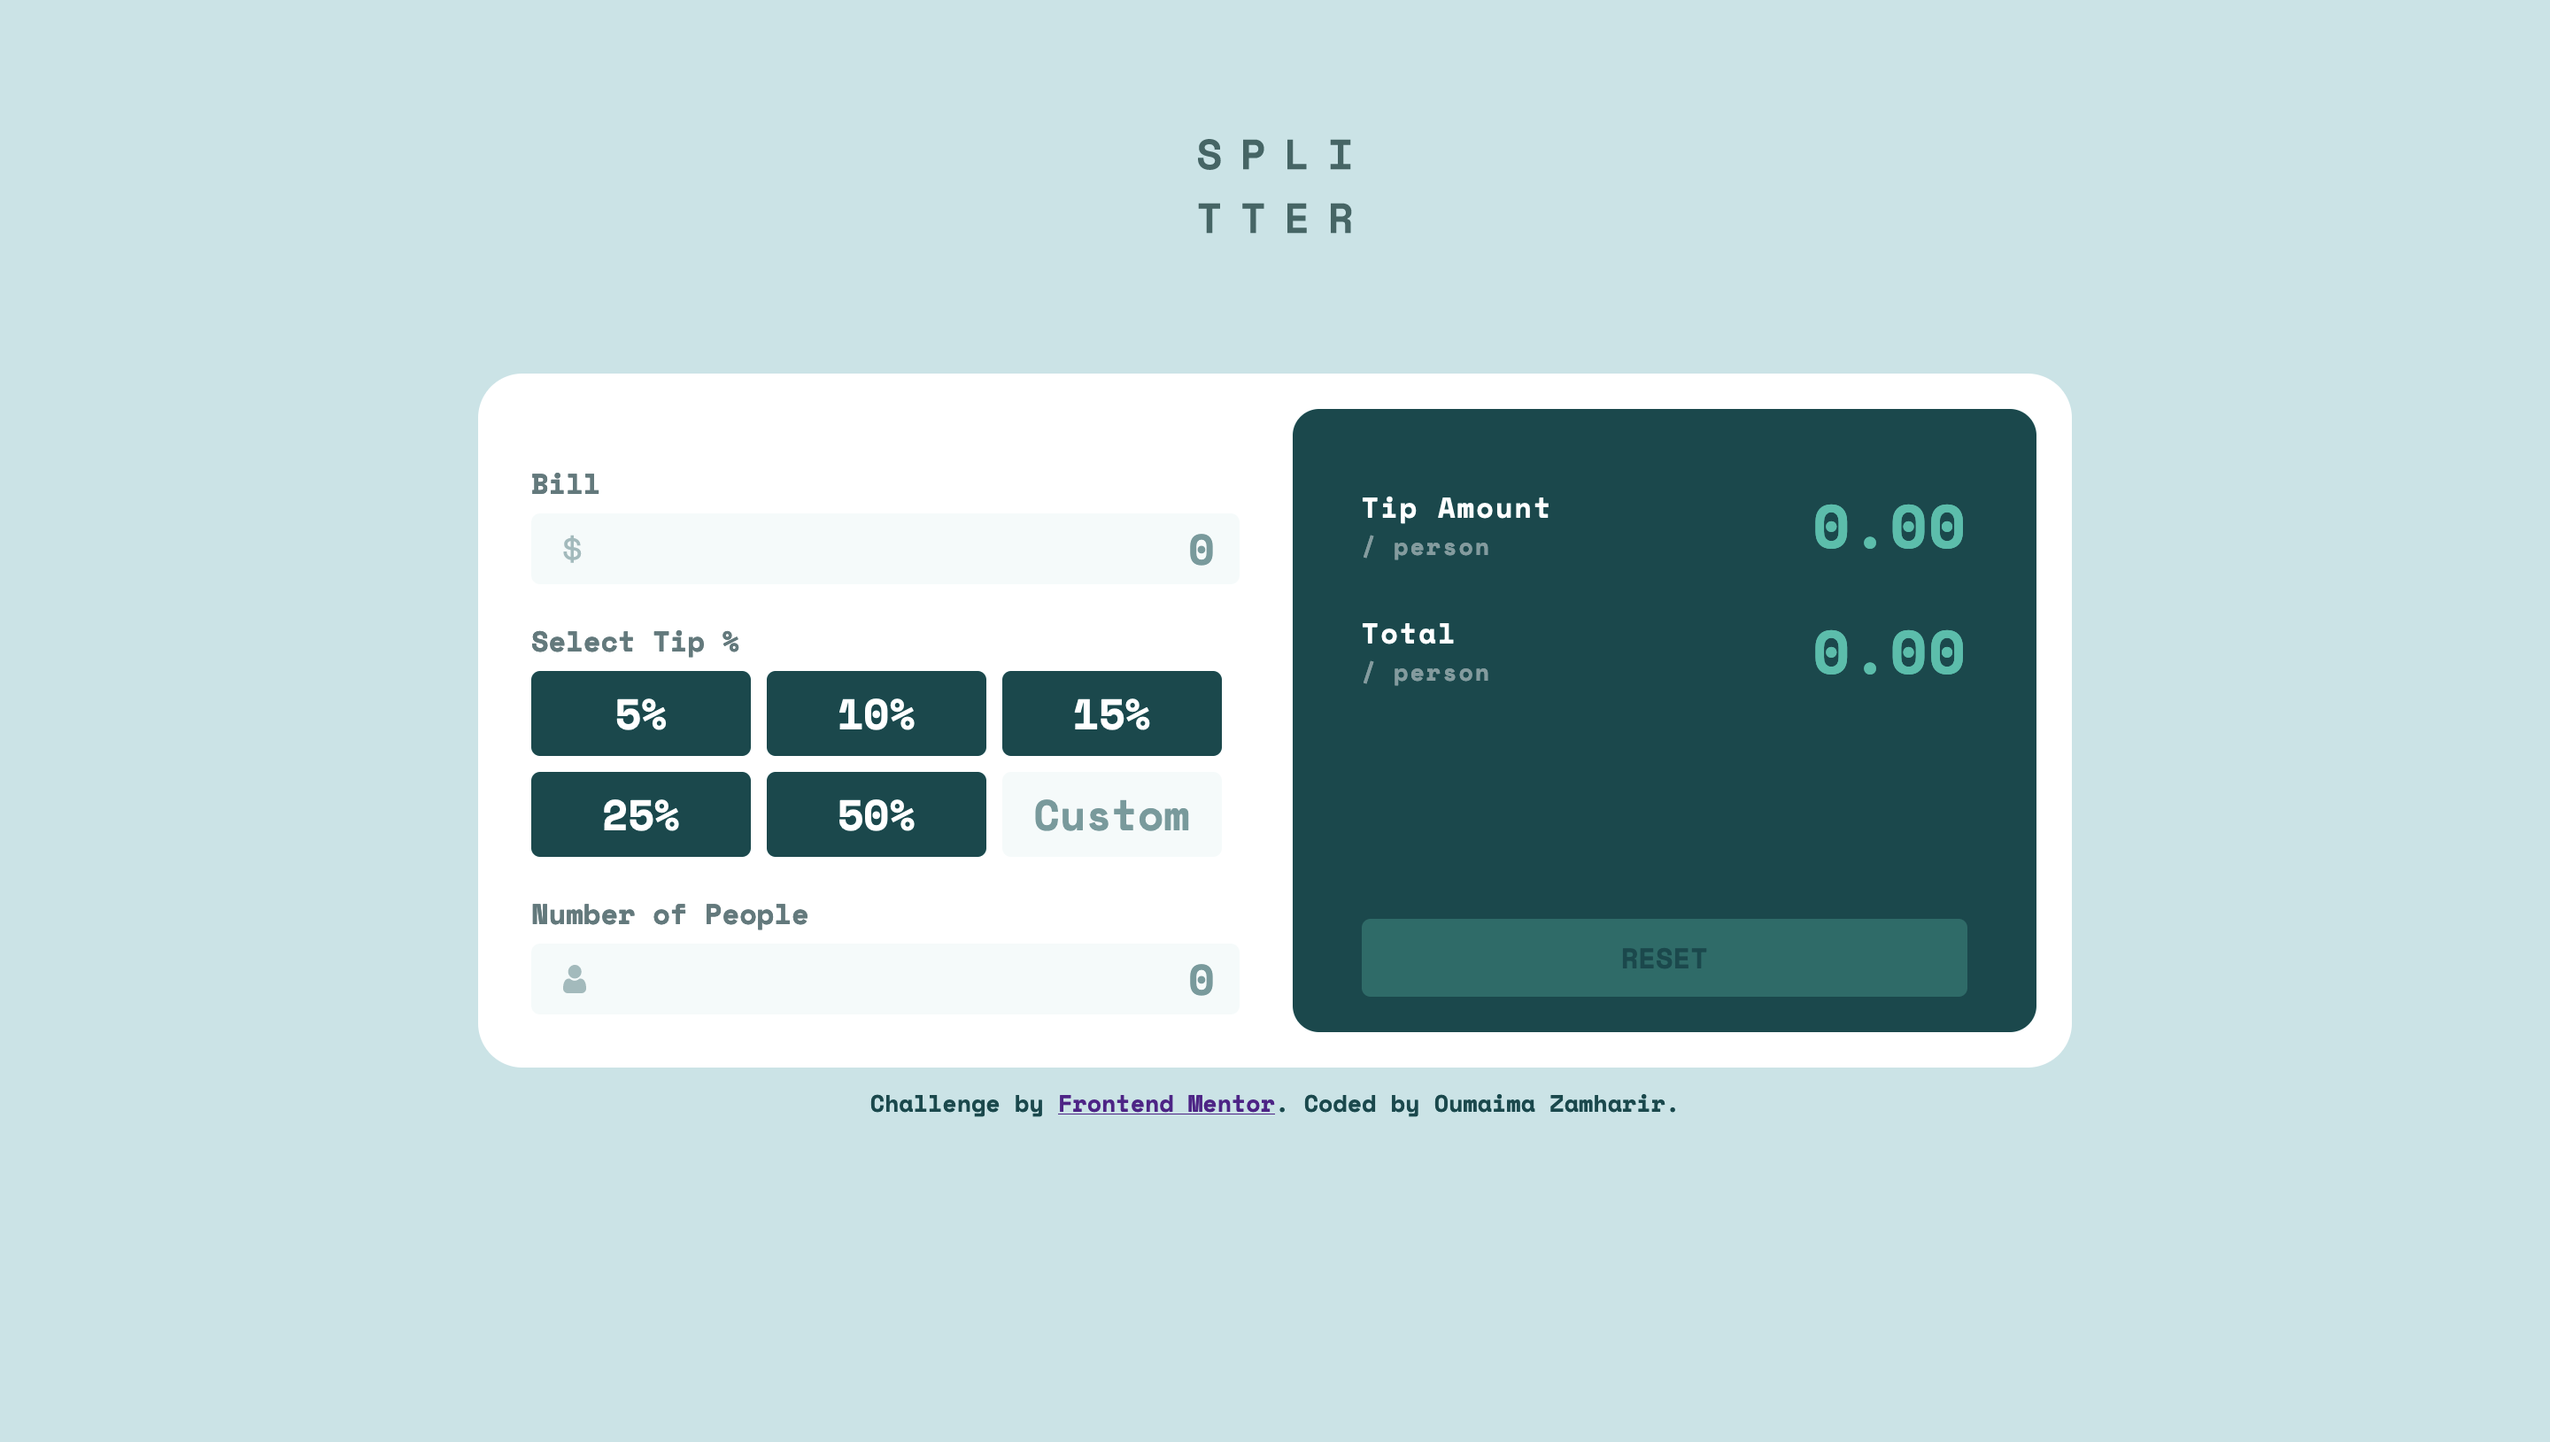
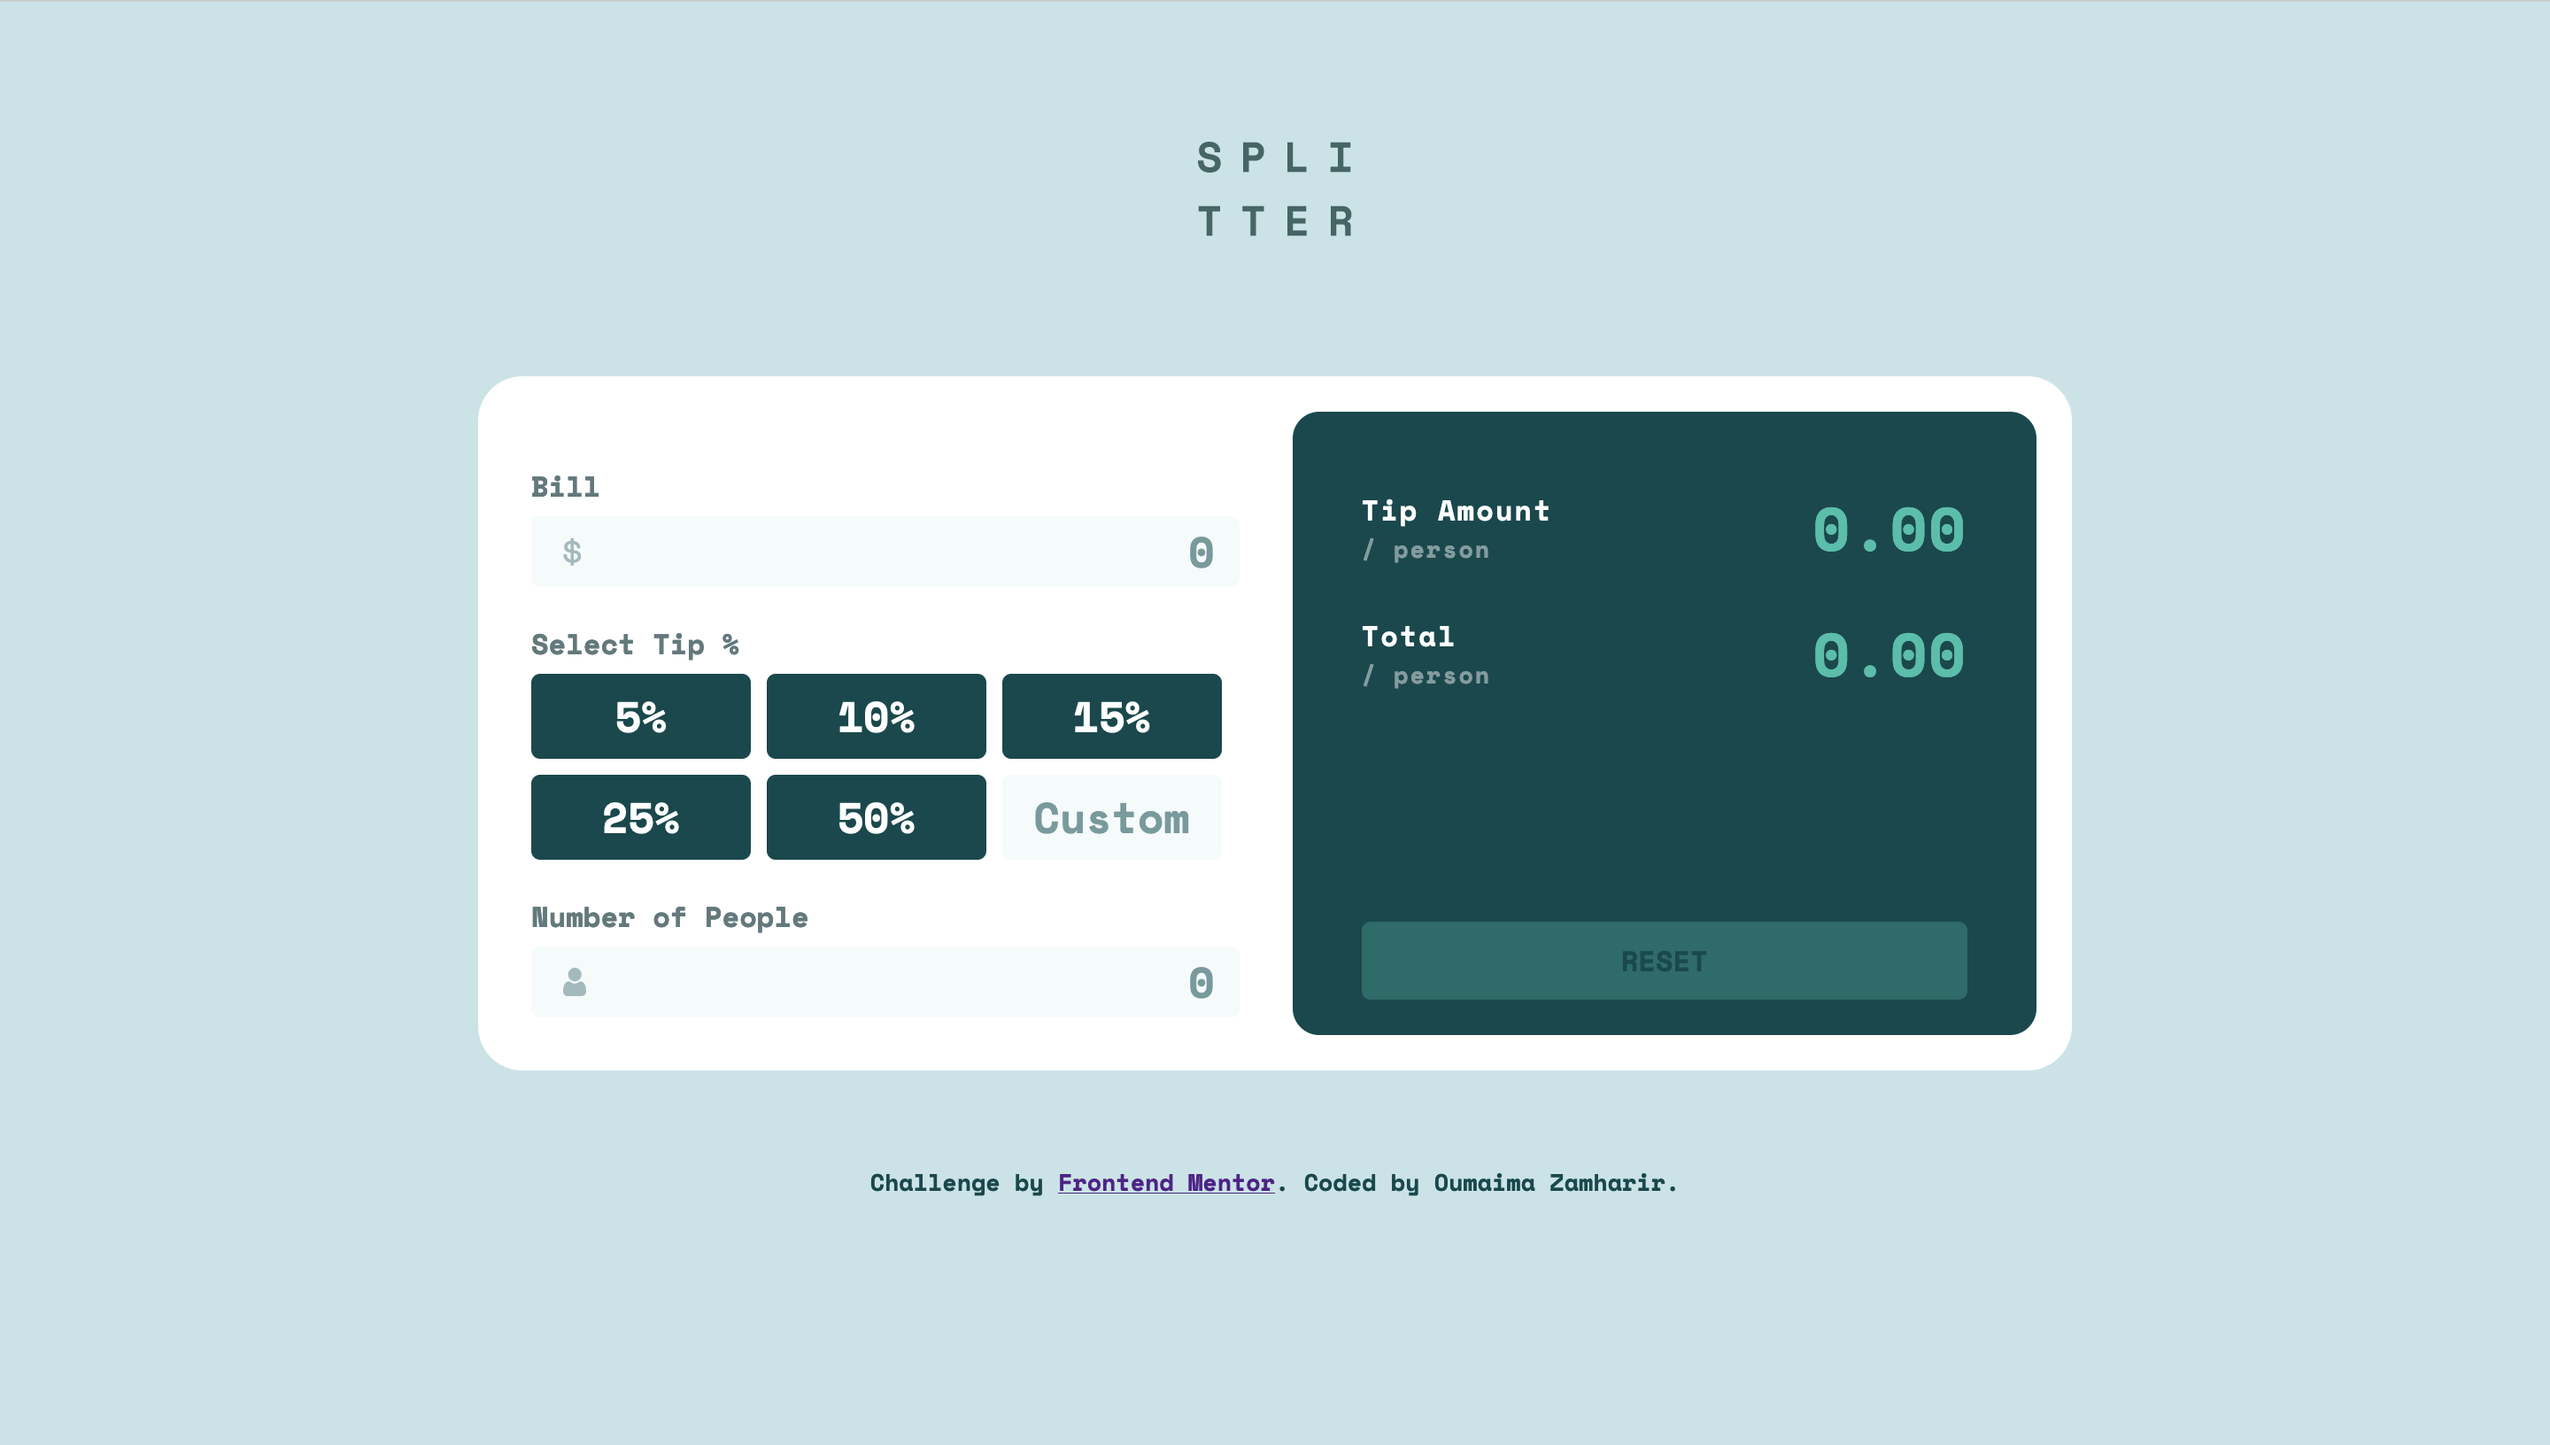
attribution styling

diff --git a/test.css b/test.css
@@ -1,0 +1,183 @@
+@import url("https://fonts.googleapis.com/css2?family=Space+Mono:wght@700&display=swap");
+
+:root {
+  --Strong-cyan: hsl(172, 67%, 45%);
+  --Very-dark-cyan: hsl(183, 100%, 15%);
+  --Dark-grayish-cyan: hsl(186, 14%, 43%);
+  --Grayish-cyan: hsl(184, 14%, 56%);
+  --Light-grayish-cyan: hsl(185, 41%, 84%);
+  --Very-light-grayish-cyan: hsl(189, 41%, 97%);
+  --White: hsl(0, 0%, 100%);
+}
+
+* {
+  box-sizing: border-box;
+  margin: 0;
+}
+
+body {
+  font-family: "Space Mono", monospace;
+  font-weight: 800;
+  /* min-height: 100vh; */
+  background-color: var(--Light-grayish-cyan);
+  display: grid;
+  /* grid-template-rows: max-content 1fr; */
+  /* font-size: 1px; */
+}
+
+.logo {
+  display: block;
+  width: 80px;
+  margin: 3em;
+  justify-self: center;
+}
+
+.calculator {
+  background-color: var(--White);
+  padding: 2em;
+  border-radius: 20px;
+  width: 100%;
+  display: flex;
+  display: flex;
+  flex-direction: column;
+  /* justify-content: space-between; */
+}
+
+/* .input-side {
+  display: flex;
+  flex-direction: column;
+  justify-content: space-between;
+} */
+
+label {
+  display: block;
+  color: var(--Dark-grayish-cyan);
+  margin-bottom: 1.7em;
+}
+
+.input-field {
+  position: relative;
+  margin-top: 0.4em;
+}
+
+.percntg-tip {
+  margin-top: 0.8em;
+}
+
+.input-field img {
+  position: absolute;
+  bottom: 30%;
+  padding-left: 1em;
+}
+
+input {
+  font-size: 24px;
+  width: 100%;
+  text-align: right;
+  background-color: var(--Very-light-grayish-cyan);
+  border: none;
+  padding: 0.3em 0.8em;
+  color: var(--Grayish-cyan);
+  font-family: inherit;
+  font-size: 24px;
+  border-radius: 5px;
+  background-color: black;
+}
+
+.percntg-tip {
+  display: flex;
+  flex-wrap: wrap;
+  gap: 1em;
+  justify-content: stretch;
+  /* align-items: center; */
+}
+
+.percntg-choice {
+  width: calc(50% - 0.5em);
+
+  /* border: 1px black solid; */
+  /* font-size: 24px; */
+  border-radius: 5px;
+  font-size: 24px;
+  padding: 0.1em 0.5em;
+  /* padding: 0.2em; */
+  background-color: black;
+}
+
+input.percntg-choice {
+  text-align: center;
+  color: var(--Very-dark-cyan);
+  background-color: var(--Light-grayish-cyan);
+  /* font-size: inherit; */
+  /* height: 100%;  */
+  display: block;
+  text-align: right;
+}
+
+input:read-only {
+  text-align: center;
+  background-color: var(--Very-dark-cyan);
+  color: white;
+}
+
+.attribution {
+  font-size: 11px;
+  text-align: center;
+}
+.attribution a {
+  color: hsl(228, 45%, 44%);
+}
+
+input::-webkit-outer-spin-button,
+input::-webkit-inner-spin-button {
+  /* display: none; <- Crashes Chrome on hover */
+  -webkit-appearance: none;
+  margin: 0; /* <-- Apparently some margin are still there even though it's hidden */
+}
+
+input[type="number"] {
+  -moz-appearance: textfield; /* Firefox */
+}
+
+.output {
+  background-color: var(--Very-dark-cyan);
+  padding: 2em 1.5em 1.5em;
+  border-radius: 12px;
+  height: 40%;
+  display: flex;
+  flex-direction: column;
+  justify-content: space-between;
+  /* margin-top: 1em; */
+}
+
+.result {
+  display: flex;
+  /* margin-top: 2em; */
+  justify-content: space-between;
+  color: var(--White);
+  /* font-size: smaller; */
+  margin-bottom: 1.5em;
+}
+
+.person {
+  color: var(--Grayish-cyan);
+  font-size: smaller;
+  letter-spacing: 0.5px;
+}
+
+.right {
+  font-size: 2em;
+  color: var(--Strong-cyan);
+  align-self: center;
+}
+
+.reset-btn {
+  background-color: var(--Strong-cyan);
+  border-radius: 4px;
+  text-transform: uppercase;
+  text-align: center;
+  padding: 0.5em;
+  letter-spacing: 0.6px;
+  margin-top: 0.5em;
+  font-size: larger;
+}

diff --git a/style.css b/style.css
@@ -251,6 +251,10 @@ input[type="number"] {
     padding: 6px 0;
     border-radius: 5px;
   }
+  .attribution {
+    align-self: center;
+    height: 50%;
+  }
 }
 
 .attribution {
@@ -258,4 +262,8 @@ input[type="number"] {
   font-size: smaller;
   color: var(--Very-dark-cyan);
   margin: 10px 0;
+}
+
+.attribution a {
+  text-decoration: none;
 }

diff --git a/README-template.md b/README-template.md
@@ -1,0 +1,112 @@
+# Frontend Mentor - Tip calculator app solution
+
+This is a solution to the [Tip calculator app challenge on Frontend Mentor](https://www.frontendmentor.io/challenges/tip-calculator-app-ugJNGbJUX). Frontend Mentor challenges help you improve your coding skills by building realistic projects.
+
+## Table of contents
+
+- [Overview](#overview)
+  - [The challenge](#the-challenge)
+  - [Screenshot](#screenshot)
+  - [Links](#links)
+- [My process](#my-process)
+  - [Built with](#built-with)
+  - [What I learned](#what-i-learned)
+  - [Continued development](#continued-development)
+  - [Useful resources](#useful-resources)
+- [Author](#author)
+- [Acknowledgments](#acknowledgments)
+
+**Note: Delete this note and update the table of contents based on what sections you keep.**
+
+## Overview
+
+### The challenge
+
+Users should be able to:
+
+- View the optimal layout for the app depending on their device's screen size
+- See hover states for all interactive elements on the page
+- Calculate the correct tip and total cost of the bill per person
+
+### Screenshot
+
+![](./screenshot.jpg)
+
+Add a screenshot of your solution. The easiest way to do this is to use Firefox to view your project, right-click the page and select "Take a Screenshot". You can choose either a full-height screenshot or a cropped one based on how long the page is. If it's very long, it might be best to crop it.
+
+Alternatively, you can use a tool like [FireShot](https://getfireshot.com/) to take the screenshot. FireShot has a free option, so you don't need to purchase it. 
+
+Then crop/optimize/edit your image however you like, add it to your project, and update the file path in the image above.
+
+**Note: Delete this note and the paragraphs above when you add your screenshot. If you prefer not to add a screenshot, feel free to remove this entire section.**
+
+### Links
+
+- Solution URL: [Add solution URL here](https://your-solution-url.com)
+- Live Site URL: [Add live site URL here](https://your-live-site-url.com)
+
+## My process
+
+### Built with
+
+- Semantic HTML5 markup
+- CSS custom properties
+- Flexbox
+- CSS Grid
+- Mobile-first workflow
+- [React](https://reactjs.org/) - JS library
+- [Next.js](https://nextjs.org/) - React framework
+- [Styled Components](https://styled-components.com/) - For styles
+
+**Note: These are just examples. Delete this note and replace the list above with your own choices**
+
+### What I learned
+
+Use this section to recap over some of your major learnings while working through this project. Writing these out and providing code samples of areas you want to highlight is a great way to reinforce your own knowledge.
+
+To see how you can add code snippets, see below:
+
+```html
+<h1>Some HTML code I'm proud of</h1>
+```
+```css
+.proud-of-this-css {
+  color: papayawhip;
+}
+```
+```js
+const proudOfThisFunc = () => {
+  console.log('🎉')
+}
+```
+
+If you want more help with writing markdown, we'd recommend checking out [The Markdown Guide](https://www.markdownguide.org/) to learn more.
+
+**Note: Delete this note and the content within this section and replace with your own learnings.**
+
+### Continued development
+
+Use this section to outline areas that you want to continue focusing on in future projects. These could be concepts you're still not completely comfortable with or techniques you found useful that you want to refine and perfect.
+
+**Note: Delete this note and the content within this section and replace with your own plans for continued development.**
+
+### Useful resources
+
+- [Example resource 1](https://www.example.com) - This helped me for XYZ reason. I really liked this pattern and will use it going forward.
+- [Example resource 2](https://www.example.com) - This is an amazing article which helped me finally understand XYZ. I'd recommend it to anyone still learning this concept.
+
+**Note: Delete this note and replace the list above with resources that helped you during the challenge. These could come in handy for anyone viewing your solution or for yourself when you look back on this project in the future.**
+
+## Author
+
+- Website - [Add your name here](https://www.your-site.com)
+- Frontend Mentor - [@yourusername](https://www.frontendmentor.io/profile/yourusername)
+- Twitter - [@yourusername](https://www.twitter.com/yourusername)
+
+**Note: Delete this note and add/remove/edit lines above based on what links you'd like to share.**
+
+## Acknowledgments
+
+This is where you can give a hat tip to anyone who helped you out on this project. Perhaps you worked in a team or got some inspiration from someone else's solution. This is the perfect place to give them some credit.
+
+**Note: Delete this note and edit this section's content as necessary. If you completed this challenge by yourself, feel free to delete this section entirely.**
